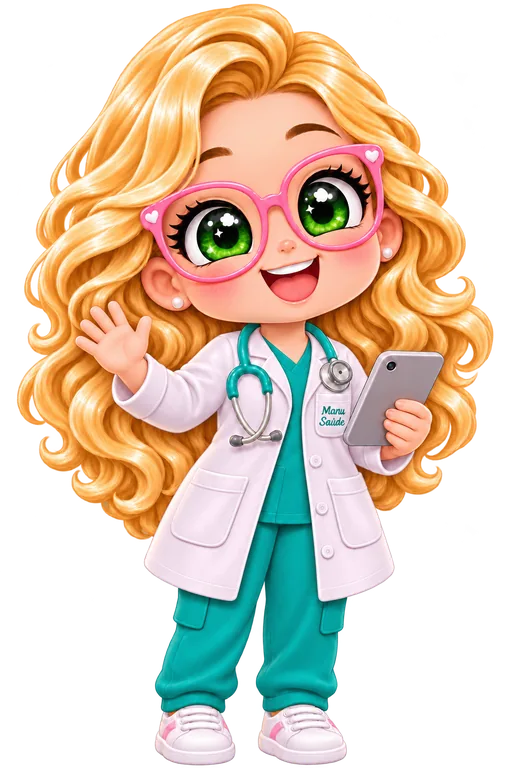
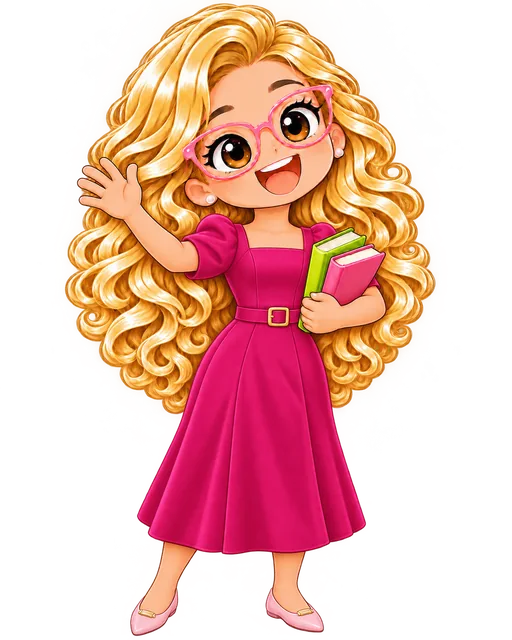
manu: artes novas da professora, uma por tela
As três artes que estavam no sistema são da Manu Saúde, de jaleco, e não
combinam com um app de professor. Saíram as três e entraram dez da Manu
professora, cada tela com a sua: notas, ACA, planejamento, atividades, banco
de questões, provas, alunos, assistente, entrevista do "meu jeito de dar
aula" e boas-vindas (carregando, início e login).

As artes vieram em PNG de 1122x1402, com 1,5 MB cada, 15 MB no total. Foram
reduzidas para 512 px de largura e convertidas em webp com transparência: as
dez juntas dão 591 KB, menos que três dos PNGs originais e cada arquivo mais
leve que qualquer uma das três antigas.

No service worker: a lista do cache inicial citava duas artes que deixaram de
existir, e um 404 ali derruba a instalação inteira do service worker. A lista
agora tem só a arte de boas-vindas, e a casca subiu para v2 para que os
aparelhos que já têm o app descartem as imagens antigas guardadas.

Claude-Session: https://claude.ai/code/session_014NNejJDwPaaeWdGrf3zA5s

diff --git a/public/app.js b/public/app.js
@@ -381,7 +381,7 @@ document.addEventListener("change", e => { if (e.target.id === "trocaTurma") irT
 try { S.turmaSel = localStorage.getItem("cp_turma"); } catch (_) {}
 
 function semTurma(msg) {
-  return `<div class="empty"><img class="manu" src="/manu/manu-agenda.webp" alt=""><h3>Crie sua primeira turma</h3><p>${esc(msg || "Cadastre uma turma com a lista de alunos para usar chamada, notas e atividades.")}</p>
+  return `<div class="empty"><img class="manu" src="/manu/manu-alunos.webp" alt=""><h3>Crie sua primeira turma</h3><p>${esc(msg || "Cadastre uma turma com a lista de alunos para usar chamada, notas e atividades.")}</p>
   <div class="toolbar" style="justify-content:center"><button class="btn primary" data-act="nova-turma">${ico("plus")}Nova turma</button>${S.mode === "live" ? `<button class="btn" data-act="seed">Carregar exemplo</button>` : ""}</div></div>`;
 }
 
@@ -1011,7 +1011,7 @@ function vNotas() {
             ${al.map(s => { const m = mediaAluno(t, s.id, b.num); return `<tr><td class="sticky-col">${esc(s.nome)}</td>${avsB.map(x => { const v = x.notas?.[s.id]; return `<td class="${clsNota(v == null || v === "" ? null : Number(v))}">${v == null || v === "" ? "—" : fmtNota(v)}</td>`; }).join("")}<td class="${clsNota(m)}" style="font-weight:700">${fmtNota(m)}</td></tr>`; }).join("")}</tbody></table></div>` : `<p class="muted small">Nenhuma nota lançada neste bimestre.</p>`}</section>`;
       }).join("")}`;
   }
-  if (!avs.length) return head + chipsPeriodo(t) + `<div class="empty"><img class="manu sm" src="/manu/manu-ajuda.webp" alt=""><h3>Nenhuma avaliação ${bim ? "no " + esc(bimPorNum(t, bim)?.nome || "") : "em " + esc(t.nome)}</h3><p>Crie uma prova, trabalho ou participação com o peso dela na média.${bim ? " Se o bimestre já passou e você só tem a média final de cada aluno, lance direto a média." : ""}</p><div class="toolbar" style="justify-content:center"><button class="btn primary" data-act="nova-avaliacao">${ico("plus")}Nova avaliação</button>${bim ? `<button class="btn" data-act="nota-media-bim">Já tenho a média do bimestre</button>` : ""}</div></div>`;
+  if (!avs.length) return head + chipsPeriodo(t) + `<div class="empty"><img class="manu sm" src="/manu/manu-notas.webp" alt=""><h3>Nenhuma avaliação ${bim ? "no " + esc(bimPorNum(t, bim)?.nome || "") : "em " + esc(t.nome)}</h3><p>Crie uma prova, trabalho ou participação com o peso dela na média.${bim ? " Se o bimestre já passou e você só tem a média final de cada aluno, lance direto a média." : ""}</p><div class="toolbar" style="justify-content:center"><button class="btn primary" data-act="nova-avaliacao">${ico("plus")}Nova avaliação</button>${bim ? `<button class="btn" data-act="nota-media-bim">Já tenho a média do bimestre</button>` : ""}</div></div>`;
   const B = bim ? bimPorNum(t, bim) : null;
   // "Para passar": só faz sentido quando as médias dos outros bimestres já estão lançadas
   const temPara = B && al.some(s => precisaNoBim(t, s.id, bim) !== null);
@@ -1048,7 +1048,7 @@ function vAca() {
   const bim = bimSelecionado(t);
   if (!bim) return head + chipsPeriodo(t) + `<div class="empty"><h3>Escolha um bimestre</h3><p>Cada bimestre tem uma ACA diferente, com gabarito e habilidades próprios. Toque no bimestre acima.</p></div>`;
   const B = bimPorNum(t, bim), aca = acaDe(t, bim), al = t.alunos || [];
-  if (!aca) return head + chipsPeriodo(t) + `<div class="empty"><img class="manu sm" src="/manu/manu-ajuda.webp" alt=""><h3>Nenhuma ACA no ${esc(B?.nome || bim + "º bimestre")}</h3><p>Monte o gabarito desta ACA: quantos itens ela tem, a letra certa de cada um e a habilidade que ele mede.</p><div class="toolbar" style="justify-content:center"><button class="btn primary" data-act="aca-config">${ico("plus")}Montar a ACA deste bimestre</button></div></div>`;
+  if (!aca) return head + chipsPeriodo(t) + `<div class="empty"><img class="manu sm" src="/manu/manu-aca.webp" alt=""><h3>Nenhuma ACA no ${esc(B?.nome || bim + "º bimestre")}</h3><p>Monte o gabarito desta ACA: quantos itens ela tem, a letra certa de cada um e a habilidade que ele mede.</p><div class="toolbar" style="justify-content:center"><button class="btn primary" data-act="aca-config">${ico("plus")}Montar a ACA deste bimestre</button></div></div>`;
   if (!al.length) return head + chipsPeriodo(t) + `<div class="empty"><h3>Esta turma ainda não tem alunos</h3><p>A ACA usa a mesma lista de alunos da turma.</p><div class="toolbar" style="justify-content:center"><a class="btn primary" href="${linkTurma(t.id, "alunos")}">Adicionar alunos</a></div></div>`;
 
   const itens = aca.itens || [];
@@ -1109,7 +1109,7 @@ function vPlanos() {
   const lista = S.planos.filter(p => !t || p.turmaId === t.id).sort((a, b) => (a.data || "").localeCompare(b.data || ""));
   const head = `<div class="page-head"><div><h1>Planejamento</h1><p class="muted">Planos de aula de ${esc(t ? t.nome : "todas as turmas")}, com habilidades da BNCC.</p></div><div class="toolbar"><button class="btn" data-act="novo-plano">${ico("plus")}Plano em branco</button><button class="btn ai" data-act="novo-plano-ia">${ico("spark")}Criar com IA</button></div></div>`;
   if (!S.turmas.length) return head + semTurma();
-  if (!lista.length) return head + `<div class="empty"><img class="manu sm" src="/manu/manu-ajuda.webp" alt=""><h3>Nenhum plano de aula ainda</h3><p>Diga o tema e a Manu monta objetivos, sequência didática, recursos e avaliação. Você revisa e salva.</p><button class="btn ai" data-act="novo-plano-ia">${ico("spark")}Criar com IA</button></div>`;
+  if (!lista.length) return head + `<div class="empty"><img class="manu sm" src="/manu/manu-planos.webp" alt=""><h3>Nenhum plano de aula ainda</h3><p>Diga o tema e a Manu monta objetivos, sequência didática, recursos e avaliação. Você revisa e salva.</p><button class="btn ai" data-act="novo-plano-ia">${ico("spark")}Criar com IA</button></div>`;
   const d0 = hoje();
   return head + `<div class="cards">${lista.map(p => { const tt = turma(p.turmaId); return `<article class="card"><div class="card-top"><div style="min-width:0"><span class="eyebrow">${fmtData(p.data)} · ${esc(tt?.nome || "")}</span><h3>${esc(p.titulo)}</h3></div><span class="chip ${p.status === "dada" ? "ok" : p.data < d0 ? "warn" : "acc"}">${p.status === "dada" ? "aula dada" : p.data < d0 ? "pendente" : "planejado"}</span></div>
     <p class="small muted" style="display:-webkit-box;-webkit-line-clamp:3;-webkit-box-orient:vertical;overflow:hidden">${esc(p.objetivos || "")}</p>
@@ -1123,7 +1123,7 @@ function vAtividades() {
   const head = `<div class="page-head"><div><h1>Atividades e entregas</h1><p class="muted">Tarefas com prazo e controle de quem entregou.</p></div><div class="toolbar"><button class="btn primary" data-act="nova-atividade">${ico("plus")}Nova atividade</button></div></div>`;
   if (!t) return head + semTurma();
   const lista = S.atividades.filter(a => a.turmaId === t.id).sort((a, b) => (b.prazo || "").localeCompare(a.prazo || ""));
-  if (!lista.length) return head + `<div class="empty"><img class="manu sm" src="/manu/manu-agenda.webp" alt=""><h3>Nenhuma atividade em ${esc(t.nome)}</h3><p>Crie uma tarefa, descreva o que os alunos devem fazer (a IA ajuda) e marque as entregas.</p><button class="btn primary" data-act="nova-atividade">${ico("plus")}Nova atividade</button></div>`;
+  if (!lista.length) return head + `<div class="empty"><img class="manu sm" src="/manu/manu-atividades.webp" alt=""><h3>Nenhuma atividade em ${esc(t.nome)}</h3><p>Crie uma tarefa, descreva o que os alunos devem fazer (a IA ajuda) e marque as entregas.</p><button class="btn primary" data-act="nova-atividade">${ico("plus")}Nova atividade</button></div>`;
   const n = (t.alunos || []).length, d0 = hoje();
   return head + lista.map(a => { const e = (t.alunos || []).filter(s => a.entregas?.[s.id]).length; const pct = n ? Math.round(e / n * 100) : 0; return `<section class="panel">
     <div class="panel-head"><div style="min-width:0"><span class="eyebrow">Prazo ${fmtData(a.prazo)}${a.valor ? " · vale " + esc(a.valor) + " ponto(s)" : ""}</span><h2>${esc(a.titulo)}</h2></div>
@@ -1153,7 +1153,7 @@ function vQuestoes() {
   const discs = [...new Set(S.questoes.map(q => q.disciplina).filter(Boolean))].sort();
   const lista = S.questoes.filter(q => (!f.disc || q.disciplina === f.disc) && (!f.dif || q.dificuldade === f.dif) && (!f.txt || (q.enunciado + " " + q.tema).toLowerCase().includes(f.txt.toLowerCase())));
   const head = `<div class="page-head"><div><h1>Banco de questões</h1><p class="muted">${S.questoes.length} questões guardadas para montar provas.</p></div><div class="toolbar"><button class="btn" data-act="nova-questao">${ico("plus")}Nova questão</button><a class="btn" href="${lk("enem")}">Banco do Enem</a><button class="btn ai" data-act="gerar-questoes">${ico("spark")}Gerar com IA</button></div></div>`;
-  if (!S.questoes.length) return head + `<div class="empty"><img class="manu sm" src="/manu/manu-ajuda.webp" alt=""><h3>Seu banco está vazio</h3><p>Peça à Manu questões sobre um tema ou pegue questões oficiais do Enem.</p><div class="toolbar" style="justify-content:center"><a class="btn" href="${lk("enem")}">Banco do Enem</a><button class="btn ai" data-act="gerar-questoes">${ico("spark")}Gerar com IA</button></div></div>`;
+  if (!S.questoes.length) return head + `<div class="empty"><img class="manu sm" src="/manu/manu-questoes.webp" alt=""><h3>Seu banco está vazio</h3><p>Peça à Manu questões sobre um tema ou pegue questões oficiais do Enem.</p><div class="toolbar" style="justify-content:center"><a class="btn" href="${lk("enem")}">Banco do Enem</a><button class="btn ai" data-act="gerar-questoes">${ico("spark")}Gerar com IA</button></div></div>`;
   return head + `<section class="panel"><div class="toolbar">
       <div class="field" style="flex:1;min-width:180px"><label for="fTxt">Buscar</label><input class="input" type="search" id="fTxt" value="${esc(f.txt)}" placeholder="Tema ou trecho do enunciado"></div>
       <div class="field"><label for="fDisc">Disciplina</label><select class="input" id="fDisc"><option value="">Todas</option>${discs.map(d => `<option ${f.disc === d ? "selected" : ""}>${esc(d)}</option>`).join("")}</select></div>
@@ -1166,14 +1166,14 @@ function vQuestoes() {
 function vProvas() {
   const head = `<div class="page-head"><div><h1>Provas</h1><p class="muted">Monte provas com questões do banco e baixe com gabarito.</p></div><div class="toolbar"><button class="btn primary" data-act="nova-prova">${ico("plus")}Nova prova</button></div></div>`;
   const provasT = S.provas.filter(p => !S.dentroTurma || p.turmaId === S.turmaSel);
-  if (!provasT.length) return head + `<div class="empty"><img class="manu sm" src="/manu/manu-agenda.webp" alt=""><h3>Nenhuma prova montada</h3><p>${S.questoes.length ? "Escolha questões do seu banco para montar a primeira." : "Primeiro guarde algumas questões no banco, depois monte a prova."}</p><button class="btn primary" data-act="${S.questoes.length ? "nova-prova" : "ir"}" data-view="questoes">${S.questoes.length ? "Nova prova" : "Ir ao banco de questões"}</button></div>`;
+  if (!provasT.length) return head + `<div class="empty"><img class="manu sm" src="/manu/manu-provas.webp" alt=""><h3>Nenhuma prova montada</h3><p>${S.questoes.length ? "Escolha questões do seu banco para montar a primeira." : "Primeiro guarde algumas questões no banco, depois monte a prova."}</p><button class="btn primary" data-act="${S.questoes.length ? "nova-prova" : "ir"}" data-view="questoes">${S.questoes.length ? "Nova prova" : "Ir ao banco de questões"}</button></div>`;
   return head + `<div class="cards">${provasT.map(p => { const t = turma(p.turmaId); return `<article class="card"><span class="eyebrow">${fmtData(p.data)} · ${esc(t?.nome || "Sem turma")}</span><h3>${esc(p.titulo)}</h3><p class="small muted">${(p.questaoIds || []).length} questões</p><div class="toolbar"><button class="btn sm" data-act="ver-prova" data-id="${esc(p.id)}">Visualizar</button><button class="btn sm ghost" data-act="editar-prova" data-id="${esc(p.id)}">Editar</button><button class="btn sm ghost" data-act="corrigir-foto" data-id="${esc(p.id)}">Corrigir por foto</button></div>${p.correcoes && Object.keys(p.correcoes).length ? `<span class="small muted">${Object.keys(p.correcoes).length} de ${(t?.alunos || []).length} corrigidas</span>` : ""}</article>`; }).join("")}</div>`;
 }
 
 /* ----- Assistente ----- */
 function vAssistente() {
   const sugest = ["Sugira uma dinâmica de 10 minutos para começar a aula", "Como adaptar uma atividade para um aluno com TDAH?", "Escreva um bilhete para os responsáveis sobre a feira de ciências", "Ideias de avaliação formativa para minha turma"];
-  return `<div class="page-head"><div><div class="hello"><img src="/manu/manu-ajuda.webp" alt=""><div><h1>Fale com a Manu</h1><p class="muted">Sua assistente pedagógica. Ela conhece o nome, a série e a disciplina das suas turmas, mas não vê os nomes dos alunos.</p></div></div></div>${S.chat.length ? `<button class="btn ghost" data-act="limpar-chat">Nova conversa</button>` : ""}</div>
+  return `<div class="page-head"><div><div class="hello"><img src="/manu/manu-assistente.webp" alt=""><div><h1>Fale com a Manu</h1><p class="muted">Sua assistente pedagógica. Ela conhece o nome, a série e a disciplina das suas turmas, mas não vê os nomes dos alunos.</p></div></div></div>${S.chat.length ? `<button class="btn ghost" data-act="limpar-chat">Nova conversa</button>` : ""}</div>
   ${!cap.ia ? `<div class="banner"><b>IA ainda não configurada.</b><span>O administrador precisa definir a chave da Anthropic (ANTHROPIC_API_KEY) no servidor.</span></div>` : ""}
   <section class="panel"><div class="chat" id="chatLog">${S.chat.length ? S.chat.map(m => `<div class="msg ${m.role === "user" ? "user" : "bot"}">${esc(m.content)}</div>`).join("") : `<div class="muted">Comece com uma pergunta ou escolha uma sugestão:</div><div class="suggest">${sugest.map(s => `<button class="btn sm" data-act="sugestao" data-txt="${esc(s)}">${esc(s)}</button>`).join("")}</div>`}</div>
   <form class="chat-form" id="chatForm"><textarea class="input" id="chatInput" placeholder="Pergunte algo sobre suas aulas…" ${cap.ia ? "" : "disabled"}></textarea><button class="btn primary" id="chatSend" ${cap.ia ? "" : "disabled"}>Enviar</button></form></section>`;
@@ -2397,7 +2397,7 @@ function vEnem() {
       <p class="small" style="color:var(--ok)"><b>Gabarito:</b> ${esc(q.certa)}</p></div>
       ${jaGuardada(r.ano, q) ? `<span class="chip ok">No seu banco</span>` : `<button class="btn sm primary" data-act="enem-guardar" data-k="${k}">Guardar no meu banco</button>`}</article>`).join("")}</div>`
       : `<p class="muted">Nenhuma questão encontrada com esses filtros. Tente outra palavra ou outra área.</p>`}
-  </section>` : `<div class="empty"><img class="manu sm" src="/manu/manu-ajuda.webp" alt=""><h3>Escolha o ano e a área</h3><p>As questões aparecem com texto, imagens, alternativas e gabarito oficiais.</p></div>`}
+  </section>` : `<div class="empty"><img class="manu sm" src="/manu/manu-questoes.webp" alt=""><h3>Escolha o ano e a área</h3><p>As questões aparecem com texto, imagens, alternativas e gabarito oficiais.</p></div>`}
   <p class="small muted">Questões do Exame Nacional do Ensino Médio, elaboradas e publicadas pelo INEP/MEC. Organização dos dados: projeto aberto enem.dev.</p>`;
 }
 async function buscarEnem() {
@@ -2708,7 +2708,7 @@ function passoEntrevista() {
     ? `<textarea class="input" id="entTxt" rows="4" maxlength="800" placeholder="${esc(q.ph)}">${esc(v || "")}</textarea>`
     : `<div class="ent-ops" role="group" aria-label="${esc(q.p)}">${opsDe(q).map(o => `<button type="button" class="tn-op" data-act="ent-op" data-v="${esc(o)}" aria-pressed="${q.tipo === "unica" ? v === o : (Array.isArray(v) ? v : []).includes(o)}">${esc(o)}</button>`).join("")}</div>
       ${q.tipo === "multi" ? `<input class="input" id="entOutro" maxlength="160" placeholder="Outro (opcional)" value="${esc(outros.join(", "))}">` : ""}<p class="small muted">${q.tipo === "multi" ? "Pode marcar mais de uma." : "Escolha uma."}</p>`;
-  abrirDlg("Meu jeito de dar aula", `<div class="ent"><div class="ent-manu"><img src="/manu/manu-ajuda.webp" alt=""><div class="ent-fala">${intro}<b>${esc(q.p)}</b></div></div>
+  abrirDlg("Meu jeito de dar aula", `<div class="ent"><div class="ent-manu"><img src="/manu/manu-entrevista.webp" alt=""><div class="ent-fala">${intro}<b>${esc(q.p)}</b></div></div>
     <div class="ent-prog"><i style="width:${Math.round((st.passo + 1) / n * 100)}%"></i></div><p class="small muted">Pergunta ${st.passo + 1} de ${n}</p>${campo}</div>`,
     `${st.passo ? `<button type="button" class="btn ghost" data-act="ent-voltar">Voltar</button>` : `<button type="button" class="btn ghost" data-act="ent-pular">Agora não</button>`}<button type="button" class="btn primary" data-act="ent-proxima">${st.passo === n - 1 ? "Ver resumo" : "Próxima"}</button>`);
 }
@@ -2722,7 +2722,7 @@ function guardarPasso() {
 }
 function resumoEntrevista() {
   const txt = textoEstilo(dlg._ent.r);
-  abrirDlg("Meu jeito de dar aula", `<div class="ent"><div class="ent-manu"><img src="/manu/manu-boas-vindas.webp" alt=""><div class="ent-fala"><b>${txt ? "Entendi! Vou planejar assim:" : "Você não marcou nada."}</b></div></div>
+  abrirDlg("Meu jeito de dar aula", `<div class="ent"><div class="ent-manu"><img src="/manu/manu-entrevista.webp" alt=""><div class="ent-fala"><b>${txt ? "Entendi! Vou planejar assim:" : "Você não marcou nada."}</b></div></div>
     ${txt ? listaEstilo(txt) : `<p class="muted">Sem problema: a Manu planeja do jeito padrão.</p>`}<p class="small muted">Dá para refazer quando quiser em Meu perfil.</p></div>`,
     `<button type="button" class="btn ghost" data-act="ent-voltar">Voltar</button><button type="button" class="btn primary" data-act="ent-salvar">Salvar</button>`);
 }
@@ -3186,7 +3186,7 @@ function vAlunos() {
       : `<div class="row"><span class="num muted small" style="width:26px">${String(i + 1).padStart(2, "0")}</span><div class="grow"><div class="title">${esc(a.nome)}</div><div class="small muted">Média ${fmtNota(m)} · Frequência ${f === null ? "—" : f + "%"}</div></div>
         <button class="btn sm ghost" data-act="al-renomear" data-id="${esc(a.id)}">Renomear</button><button class="btn sm ghost danger" data-act="al-remover" data-id="${esc(a.id)}">Remover</button></div>`; }).join("")}</div>
     <p class="small muted">Remover um aluno tira o nome dele da chamada, das notas e das entregas desta turma.</p></section>`
-    : `<div class="empty"><img class="manu sm" src="/manu/manu-agenda.webp" alt=""><h3>Nenhum aluno ainda</h3><p>Digite o nome acima, cole a lista da secretaria ou envie o PDF ou a foto da lista.</p></div>`}`;
+    : `<div class="empty"><img class="manu sm" src="/manu/manu-alunos.webp" alt=""><h3>Nenhum aluno ainda</h3><p>Digite o nome acima, cole a lista da secretaria ou envie o PDF ou a foto da lista.</p></div>`}`;
 }
 async function salvarAlunos(alunos, msg) {
   const t = turmaAtual(), nt = JSON.parse(JSON.stringify(t)); nt.alunos = alunos; S.alEdit = null;

diff --git a/public/sw.js b/public/sw.js
@@ -2,10 +2,11 @@
 // - Telas e arquivos do sistema ficam guardados no aparelho.
 // - Os dados do professor (turmas, diário, notas...) são buscados na internet e, sem conexão, vêm da última cópia.
 // - O que for salvo sem internet fica numa fila no próprio app (app.js) e é enviado quando a conexão volta.
-const CASCA = "manu-casca-v1", DADOS = "manu-dados";
+// v2: as artes da Manu mudaram, e o activate apaga a casca antiga para ninguém continuar vendo as imagens velhas
+const CASCA = "manu-casca-v2", DADOS = "manu-dados";
 
 self.addEventListener("install", (e) => {
-  e.waitUntil(caches.open(CASCA).then((c) => c.addAll(["/app.js", "/app.css", "/manu/manu-boas-vindas.webp", "/manu/manu-ajuda.webp", "/manu/manu-agenda.webp", "/icones/icone-192.png"])).then(() => self.skipWaiting()));
+  e.waitUntil(caches.open(CASCA).then((c) => c.addAll(["/app.js", "/app.css", "/manu/manu-boas-vindas.webp", "/icones/icone-192.png"])).then(() => self.skipWaiting()));
 });
 self.addEventListener("activate", (e) => {
   e.waitUntil(caches.keys().then((ks) => Promise.all(ks.filter((k) => k !== CASCA && k !== DADOS).map((k) => caches.delete(k)))).then(() => self.clients.claim()));
